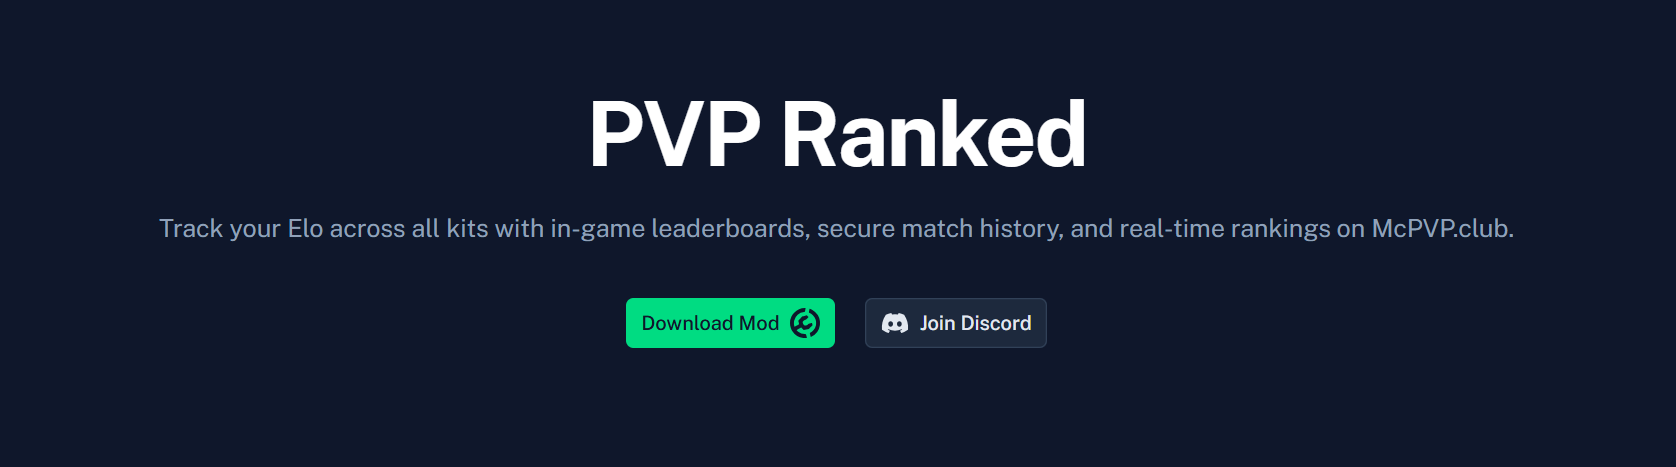
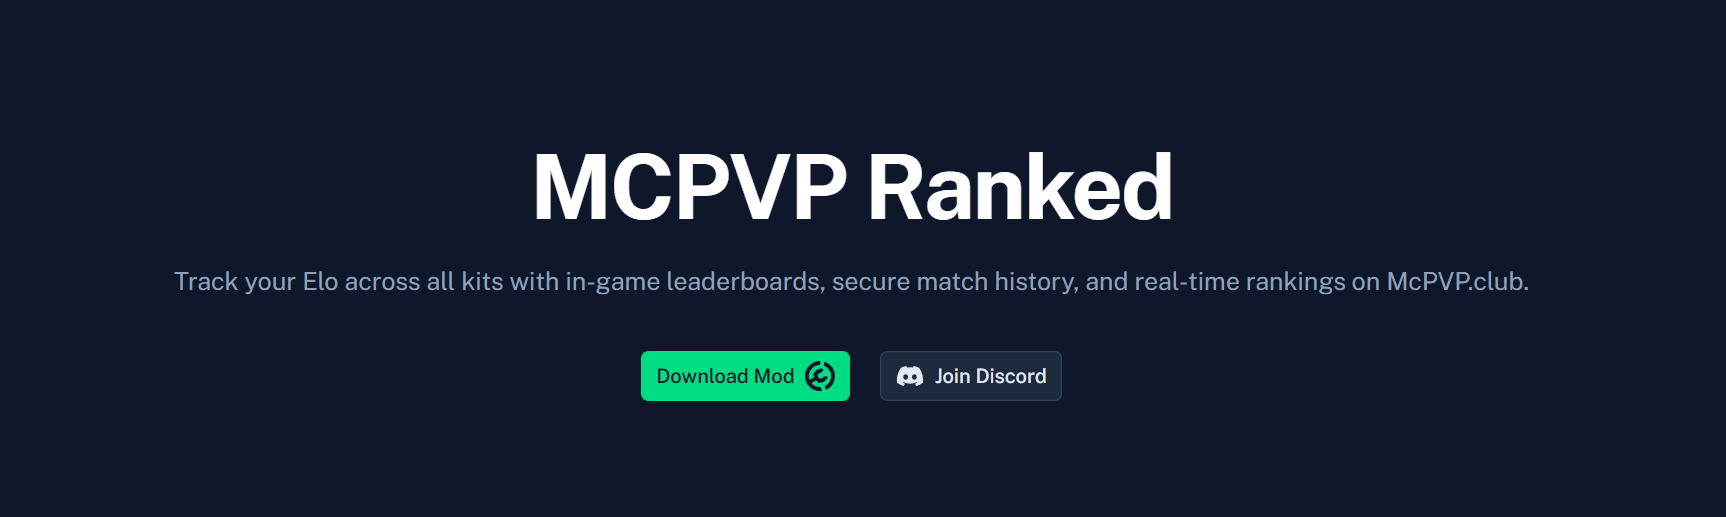
change name from PVP Ranked to MCPVP Ranked

Changed region(s): [[0.3103, 0.2099, 0.6826, 0.4497], [0.0931, 0.4497, 0.8998, 0.5696], [0.3723, 0.6296, 0.6205, 0.7794]]

diff --git a/app/app.vue b/app/app.vue
@@ -11,7 +11,7 @@ useHead({
   }
 })
 
-const title = 'PVP Ranked'
+const title = 'MCPvP Ranked'
 const description = 'Track your Elo across all kits with in-game leaderboards, secure match history, and real-time rankings on McPVP.club.'
 
 useSeoMeta({
@@ -32,7 +32,7 @@ useSeoMeta({
     <UMain>
       <template>
         <UBanner title="This Website is in very early Development!" />
-      </template>  
+      </template>
       <NuxtPage />
       <UModals />
     </UMain>

diff --git a/app/pages/index.vue b/app/pages/index.vue
@@ -7,7 +7,7 @@ const ModrinthIsOpen = ref(false)
   <div>
     <UPageHero
       class="min-h-screen flex items-center"
-      title="PVP Ranked"
+      title="MCPVP Ranked"
       description="Track your Elo across all kits with in-game leaderboards, secure match history, and real-time rankings on McPVP.club."
       :links="[{
         label: 'Download Mod',
